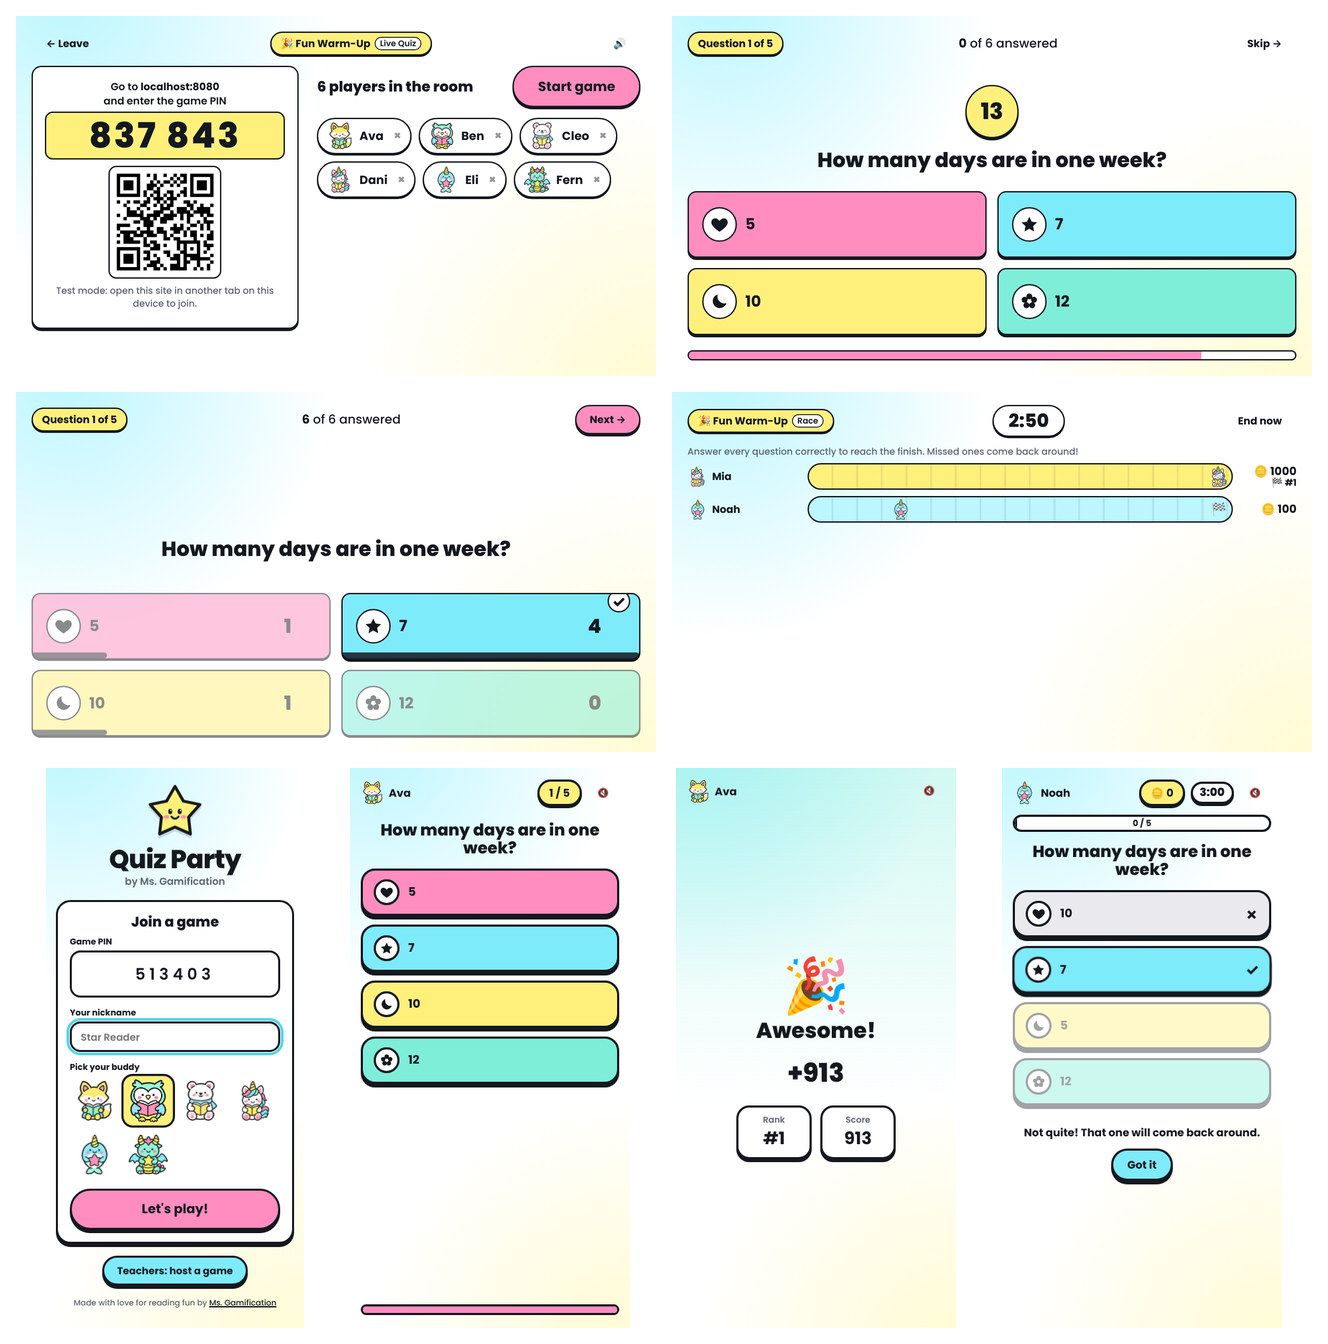
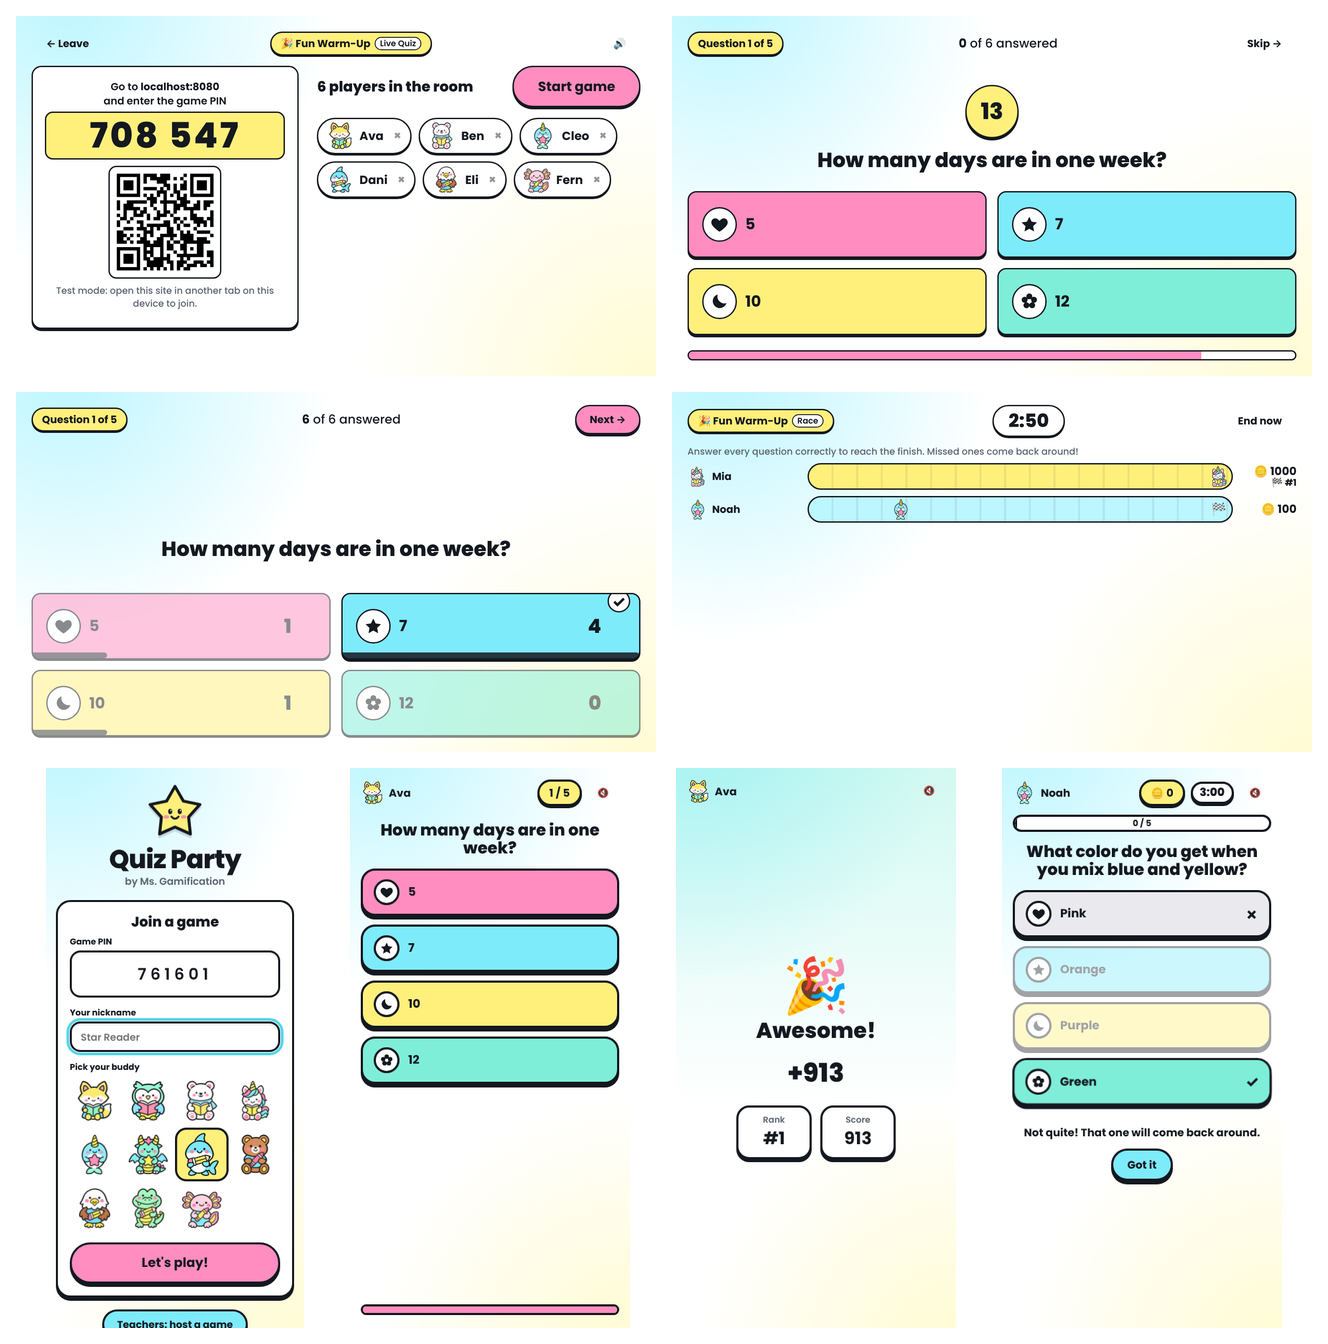
Add five more Reading Buddies (11 total)
Shark, teddy bear, eagle, gator and axolotl. The white bear is now named Polar Bear.

Claude-Session: https://claude.ai/code/session_01EgvvZ5qXDQajd3EtKrFmkr

diff --git a/js/buddies.js b/js/buddies.js
@@ -8,8 +8,13 @@
 export const BUDDIES = [
   { id: 'fox', name: 'Fox' },
   { id: 'owl', name: 'Owl' },
-  { id: 'bear', name: 'Bear' },
+  { id: 'polarbear', name: 'Polar Bear' },
   { id: 'unicorn', name: 'Unicorn' },
   { id: 'narwhal', name: 'Narwhal' },
   { id: 'dragon', name: 'Dragon' },
+  { id: 'shark', name: 'Shark' },
+  { id: 'teddy', name: 'Teddy Bear' },
+  { id: 'eagle', name: 'Eagle' },
+  { id: 'gator', name: 'Gator' },
+  { id: 'axolotl', name: 'Axolotl' },
 ];
